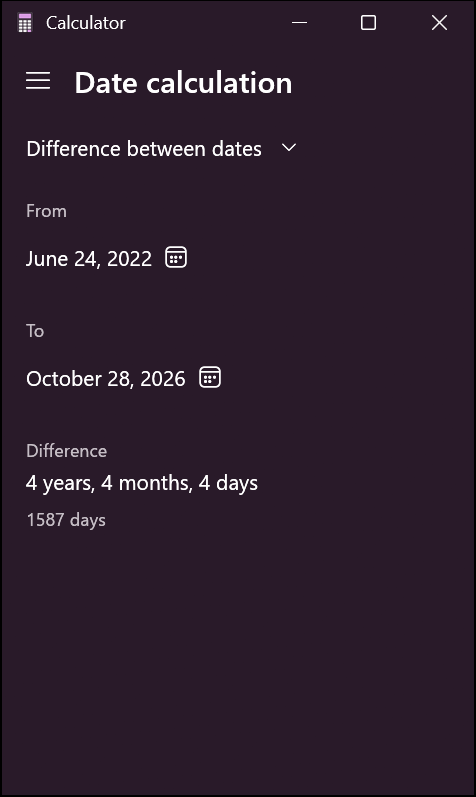
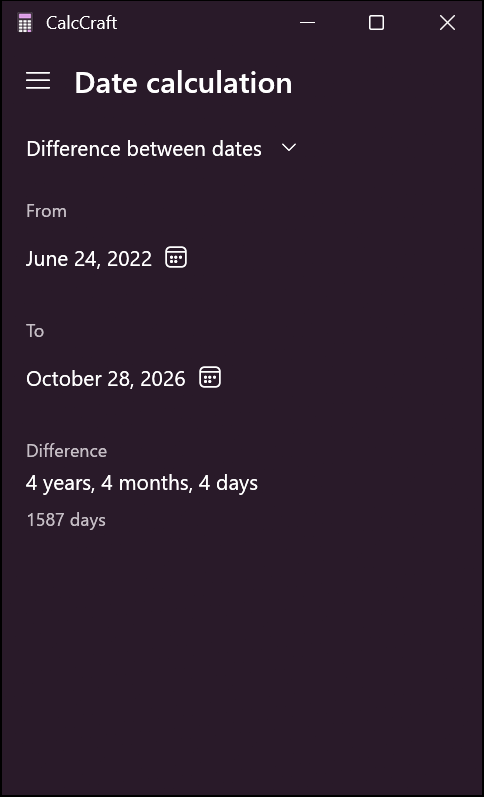
Show CalcCraft in the window title
The title bar said "Calculator"; it now shows the app's name, matching
the About section, Task Manager and the settings folder. The section
heading "Calculator" in the menu stays: it names the group of modes,
as in Windows.

The README screenshots are retaken with the new title.

diff --git a/src/main.rs b/src/main.rs
@@ -11,7 +11,7 @@ use eframe::egui;
 fn main() -> eframe::Result {
     let options = eframe::NativeOptions {
         viewport: egui::ViewportBuilder::default()
-            .with_title("Calculator")
+            .with_title("CalcCraft")
             .with_inner_size([320.0, 500.0])
             .with_min_inner_size([280.0, 360.0])
             .with_icon(app::window_icon()),
